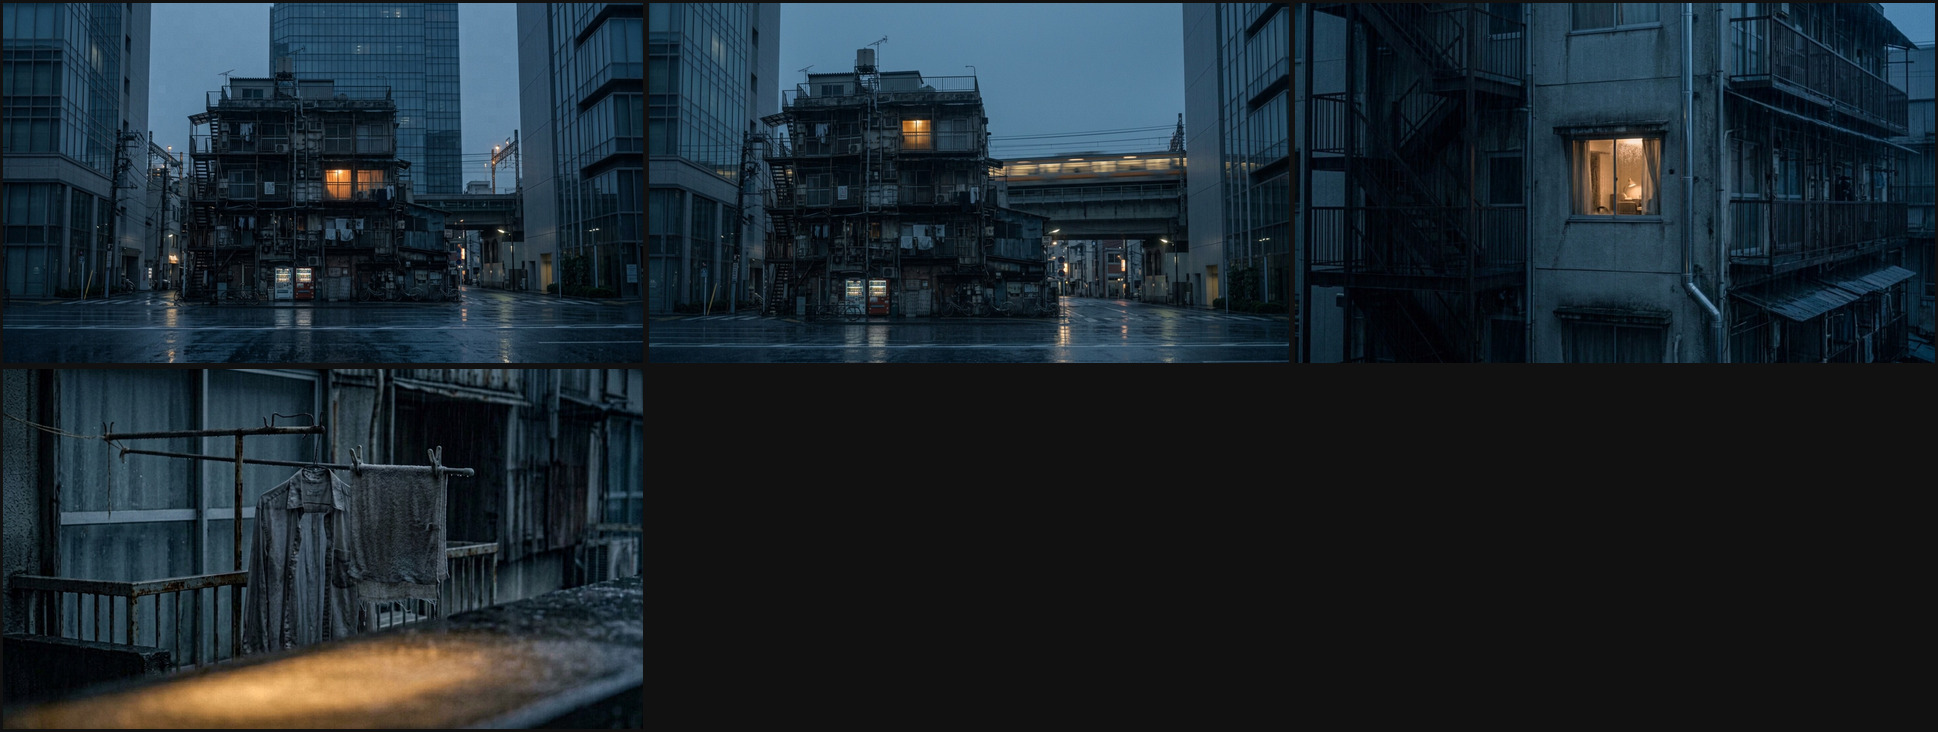
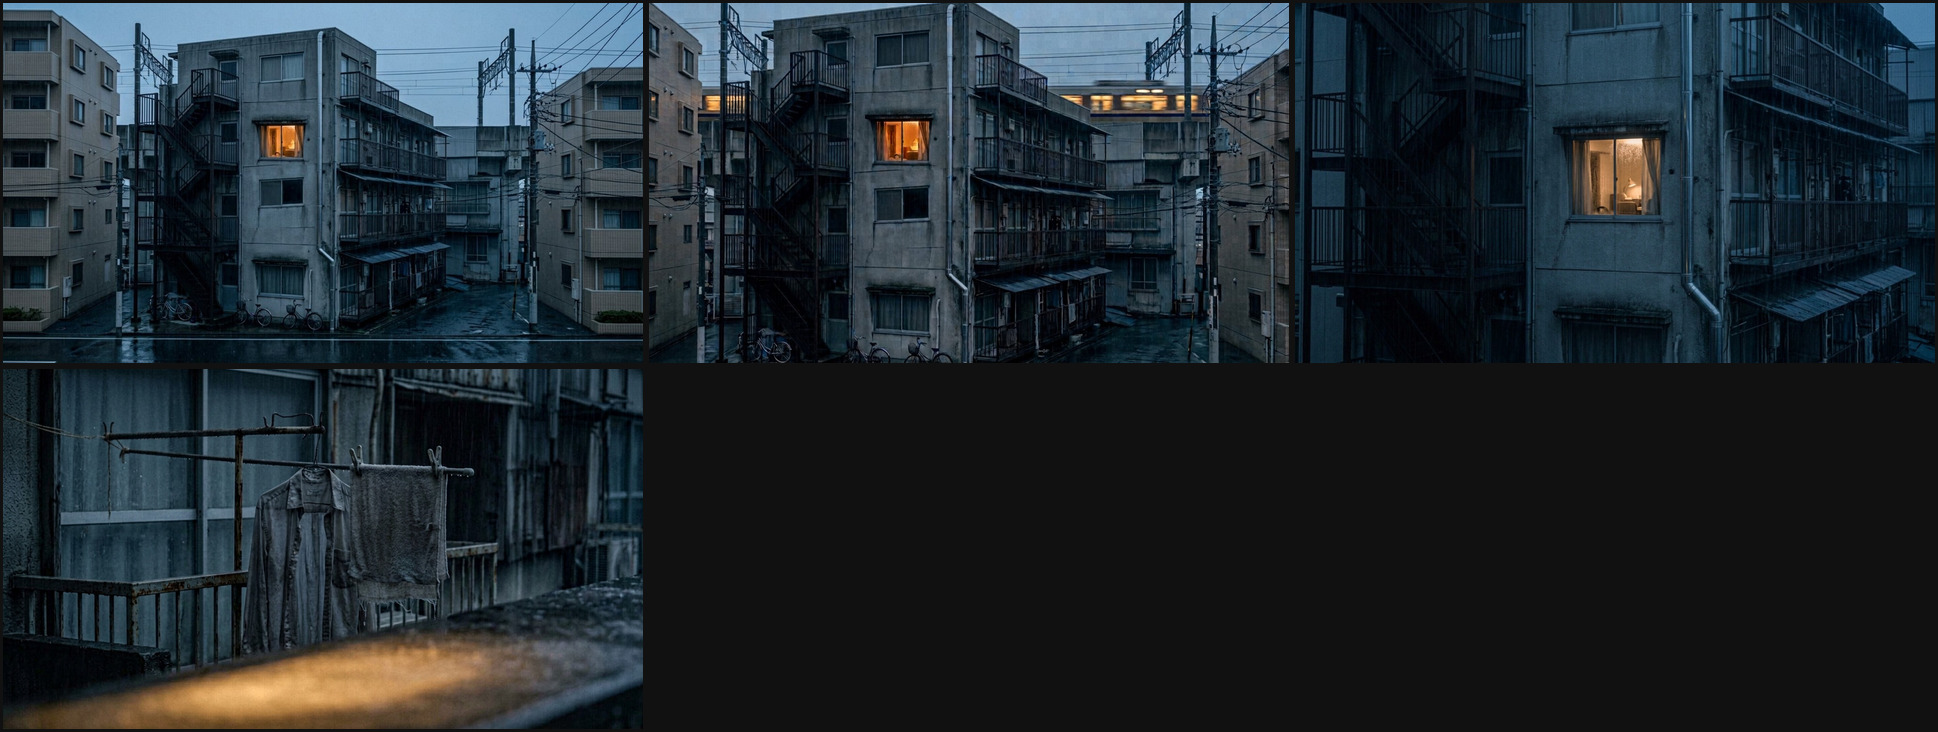
Retake scene 3 shots 29 and 30 as Vera's ordinary four-storey apartment block (not the Hive)

Changed region(s): [[0.0, 0.0, 0.6811, 0.5109]]

diff --git a/docs/neonoire/scenes/n03-apartment-building.md b/docs/neonoire/scenes/n03-apartment-building.md
@@ -7,9 +7,9 @@ Cast: — (the building carries the scene; Vera's lit window is the only figure)
 Lens plan: 24mm for the block, 35mm for the building against the elevated line, 85mm for the laundry and the lit window.
 Grammar: dusk, not night, and the first time the film has been out in daylight of any kind — grey, wet, going blue. The city still lights the frame: one window on the third floor, train windows sliding past, sodium starting up below.
 
-## Frame format — 26 September 2026
+## Frame format — 26 September 2026 (retaken 29 September 2026)
 
-All four shots (29–32) are rebuilt **16:9, 1920×1080, full-bleed** — 29–31 earlier on 26 September 2026, the laundry insert 32 later the same day, closing the last legacy frame in the film. The lit window in 31 was regenerated to match 29's third-floor geometry, closing that production check. The `THREE DAYS LATER` super in shot 29 is a title, not photography: it is added in the grade and never baked into the keyframe.
+All four shots (29–32) are rebuilt **16:9, 1920×1080, full-bleed** — 29–31 earlier on 26 September 2026, the laundry insert 32 later the same day, closing the last legacy frame in the film. **Retake 29 September 2026 (shots 29 and 30):** the earlier studies of 29 (`s3/29-apartment-block.jpg`) and 30 (`s3/30-the-elevated-line.jpg`) had been generated with `keys/06-the-block.jpg` (the Hive key) attached and drew a dark, pipe-and-cage-encrusted self-built block wedged between gleaming glass office skyscrapers — the Hive's silhouette — with the lit window jumping from the third floor in 29 to the fourth floor in 30. **Vera lives in an ordinary old four-storey apartment building somewhere else in Tokyo, beside the elevated railway — NOT the Hive.** The story depends on her *not* knowing the Hive until scene 55. Shots 29 and 30 are retaken against `s3/31-the-lit-window.jpg` and `s78/88-the-walkway.jpg` (`scripts/neonoire/apartment-look.mjs`, `apartmentBuildingLook`): a plain 1970s four-storey grey precast-concrete residential block squeezed between two ordinary newer five-storey beige tiled residential manshon buildings on a quiet wet Tokyo street, external steel staircase on the left, standard balconies on the right, bicycles at the foot of the wall, the concrete elevated railway viaduct directly behind, and **only one window on the third floor lit** with warm amber table-lamp light across 29, 30 and 31. The `THREE DAYS LATER` super in shot 29 is a title, not photography: it is added in the grade and never baked into the keyframe.
 
 ---
 
@@ -20,7 +20,7 @@ CAST: —
 LIGHT: Blue hour
 TIME: 9
 IMAGE: 29-apartment-block.jpg
-NOTE: The block belongs to no single decade: a modern tower behind it, laundry that has not been brought in, a hand-painted sign at street level. The super is the only text in the frame.
+NOTE: Retake 29 September 2026 — Vera lives in an ordinary old four-storey grey precast-concrete apartment building somewhere else in Tokyo, beside the elevated railway, NOT the Hive (the story depends on her not knowing the Hive). Held to s3/31-the-lit-window.jpg and s78/88-the-walkway.jpg: four floors of plain grey concrete panels, open external steel staircase on the left, balconies with dark metal railings on the right, bicycles at the foot of the wall, squeezed between two ordinary newer five-storey beige tiled residential manshon buildings (never glass office skyscrapers, never self-built cages or shacks), concrete elevated railway viaduct behind, and ONLY the single window on the third floor lit warm amber. The super is added in the grade and never baked into the frame. Caveat: the vertical drainpipe's diagonal elbow sits between the second and first floors here and in 30, where 31's medium framing places it just below the third-floor sill.
 
 30. WIDE — 35mm, static, eye level — the elevated line.
 A train slides past on the elevated line behind the block, its windows lit, and the whole building trembles faintly. Rain on everything.
@@ -29,7 +29,7 @@ CAST: —
 LIGHT: Blue hour
 TIME: 7
 IMAGE: 30-the-elevated-line.jpg
-NOTE: The tremble is the point — this is the film's other-lives rule, thousands of people moving past one lit window. Shoot the train's blur, not its detail.
+NOTE: Retake 29 September 2026 — 35mm wide stepping in on the exact same ordinary old four-storey grey concrete apartment building of s3/29-apartment-block.jpg and s3/31-the-lit-window.jpg (NOT the Hive; no glass office towers, no cages or shacks). A commuter train slides past on the concrete elevated railway viaduct behind the block, its warm lit passenger windows blurred with motion under the catenary gantries, while the same single window on the third floor stays lit warm amber. The tremble is the point — this is the film's other-lives rule, thousands of people moving past one lit window. Shoot the train's blur, not its detail.
 
 31. MEDIUM — 85mm, static, eye level — the lit window.
 One window on the third floor is lit. Rain-streaked glass, a curtain not quite closed, and the shape of a room behind it that the audience will not enter for another eight shots.

diff --git a/docs/neonoire/passes/cold-open-revision.md b/docs/neonoire/passes/cold-open-revision.md
@@ -9,7 +9,7 @@ Scope: **shots 1–28**, scenes 1–2, before the main titles. Preserve the verb
 - [x] **14–18** — rebuilt 16:9 later on 26 September 2026 (batch two): the kneel, the grip, the key 87 insert, the torn strap and the puddle, the torch on the purse. Shot 18 keeps the moderation-safe composition — the beam on the purse in the water is the subject; the searching man stands by the sedan and no body is in frame.
 - [x] **19–21** — rebuilt 16:9 in the same session: the six-stool bar established empty, the journalist's face and beer and closed notebook locked, Mara bringing the street's weather in. Caveat: in 21 the rain behind her reads through the bar's front window rather than through the open door.
 - [x] **22–28** — final cold-open batch, rebuilt 16:9 later on 26 September 2026 (batch three): the journalist's glance, Mara behind the counter with the key, the floor's law (shoes, crates, ceiling glow), the two pairs of shoes, the tipped stool and the hand and the laughing TV, the notebook taken, and Mara's hand flat on the rattling bottles. **The cold open, shots 1–28, is now wholly 16:9.** Carried caveat: the notebook cover reads pale grey in 27 against the darker cover on the counter in 20 — logged in `scenes/n02-small-bar.md`, not spent a generation on.
-- [x] **29–31 (scene 3)** — rebuilt 16:9 in the same session from the legacy studies' own geometry: the block between towers with its external stair, the train's blur on the elevated line, the one lit window. The `THREE DAYS LATER` super is a title added in the grade, never baked; the lit window's geometry between 29 and 31 is a production-review check.
+- [x] **29–31 (scene 3)** — rebuilt 16:9 in the same session from the legacy studies' own geometry: the block between towers with its external stair, the train's blur on the elevated line, the one lit window. The `THREE DAYS LATER` super is a title added in the grade, never baked; the lit window's geometry between 29 and 31 is a production-review check. **Retaken 29 September 2026 (shots 29 and 30):** the earlier 29 and 30 had been generated from `keys/06-the-block.jpg` (the Hive key) and looked like the Hive between glass office towers, with the lit window jumping from the third floor to the fourth. Vera lives in an **ordinary old four-storey apartment building** somewhere else in Tokyo, beside the elevated railway — the story depends on her *not* knowing the Hive until scene 55. Shots 29 (`s3/29-apartment-block.jpg`, 24mm establishing) and 30 (`s3/30-the-elevated-line.jpg`, 35mm wide with the blurred train on the elevated viaduct) are retaken against `s3/31-the-lit-window.jpg` and `s78/88-the-walkway.jpg`: a plain four-storey grey precast-concrete residential block squeezed between two ordinary newer five-storey beige tiled residential manshon buildings, external steel stair on the left, balconies on the right, bicycles at the foot of the wall, and **only the single window on the third floor lit** warm amber across 29, 30 and 31 (`scripts/neonoire/apartment-look.mjs`, `apartmentBuildingLook`; review sheet `reviews/scene-3-revision.jpg`).
 - [x] **32 (scene 3)** — the laundry insert, rebuilt 16:9 later on 26 September 2026 (batch four): shirt and towel on the line, two pegs, rain since before, the train's light crossing at the end. **No legacy 2.39:1 frame remains anywhere in the numbered board.**
 - [x] **Batch four detail fixes (same session)** — shot 235's lounge clock now reads 9:58 as scripted; shot 234's box now reads TOKYO in legible marker; shot 27's notebook now matches shot 20's brown leather wrap; shot 21's rain now falls through the open door behind Mara; shot 31's lit window now matches 29's geometry. Two prop masters added under `public/images/neonoire/props/`: the SHIOHAMA cassette label and the DANIEL VOSS green-cloth notebook cover.
 - [x] **29–32 (scene 3) closed** — the last line above was stale: scene 3 is rebuilt, and the bundle builder no longer marks any frame **16:9 REVISION PENDING**. The old `awaitingAspect` scene-key flag was replaced by a dimension test that reads each JPEG's own bytes; all 269 frames that predate the final coverage pass were scanned and every one is exactly 1920×1080.

diff --git a/docs/neonoire/handoff.md b/docs/neonoire/handoff.md
@@ -4,6 +4,10 @@
 
 This branch (`arena/01a0ea4b-playframe`) is merged to `main` in PR #36 — the whole September retake programme: the Hive canon and look (all thirty-four frames), the Kanda alley layout, and the roadside inn style sheet and mask rule. The branch stays open for future passes; merge again when the next batch lands.
 
+## Current state — 29 September 2026 (Scene 3: Vera's apartment building is not the Hive)
+
+Shots 29 (`s3/29-apartment-block.jpg`, 24mm establishing) and 30 (`s3/30-the-elevated-line.jpg`, 35mm wide) of Scene 3 (`EXT. VERA'S APARTMENT BUILDING — DUSK`) had been generated with `keys/06-the-block.jpg` (the Hive key) attached and drew a dark, pipe-and-cage-encrusted Kowloon/Hive block wedged between gleaming glass office skyscrapers — with the lit window jumping from the third floor in 29 to the fourth floor in 30. **Vera lives in an ordinary old four-storey apartment building somewhere else in Tokyo, beside the elevated railway — the story depends on her *not* knowing the Hive until scene 55.** Both frames are retaken at 1920×1080 against `s3/31-the-lit-window.jpg` and `s78/88-the-walkway.jpg`: a plain 1970s four-storey grey precast-concrete residential block squeezed between two ordinary newer five-storey beige tiled residential manshon buildings on a quiet wet Tokyo street, external steel staircase on the left, balconies on the right, bicycles at the foot of the wall, the concrete elevated railway viaduct directly behind (with the commuter train sliding past blurred in 30), and **only the single window on the third floor lit** warm amber across 29, 30 and 31. `KEYS.s3` in `pass-prompts.mjs` is detached from `06-the-block.jpg`, `apartmentBuildingLook` in `scripts/neonoire/apartment-look.mjs` locks the exterior grammar, `verify-neonoire.mjs` asserts the rule, and `reviews/scene-3-revision.jpg` is updated. Caveat: the vertical drainpipe's diagonal elbow sits between the second and first floors in 29 and 30 where 31's close framing places it just below the third-floor window sill.
+
 ## Current state — 29 September 2026 (roadside inn: style sheet and mask rule)
 
 The inn now has a canon style sheet — `sheets/roadside-inn.jpg`, four labelled panels (the warm exterior, the warm lobby, the stairs, and the same exterior in THE COLD) — recorded in `passes/roadside-inn.md` and referenced from `inn-look.mjs`. The director confirmed the masked men's costume at the inn: dark knit caps over **black lower-face masks**, the same crew as scene 1 — never white facemasks, never full balaclavas. Six frames where the masks read wrong (175-the-curtain-gap, 176-were-closed, 177-boots-below, 178-thank-you-very-much, 222-mud-and-impacts, 215-no-need-to-chase) were retaken masks-only and installed; review sheets `reviews/roadside-inn-sheet-review.jpg` and `reviews/roadside-inn-masks.jpg`. The rule is written into `innBase` and asserted in `verify-neonoire.mjs`.
